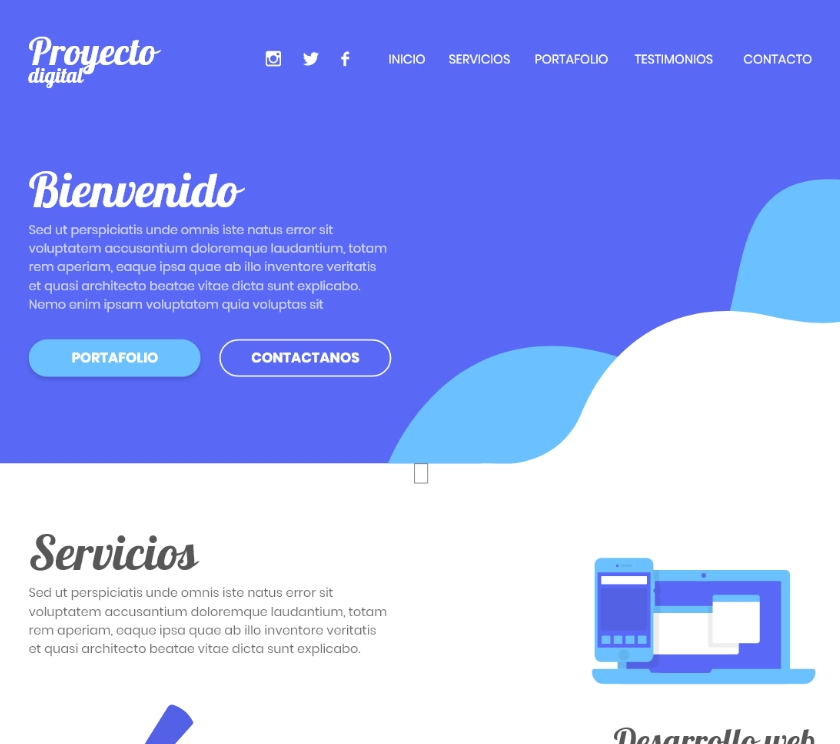
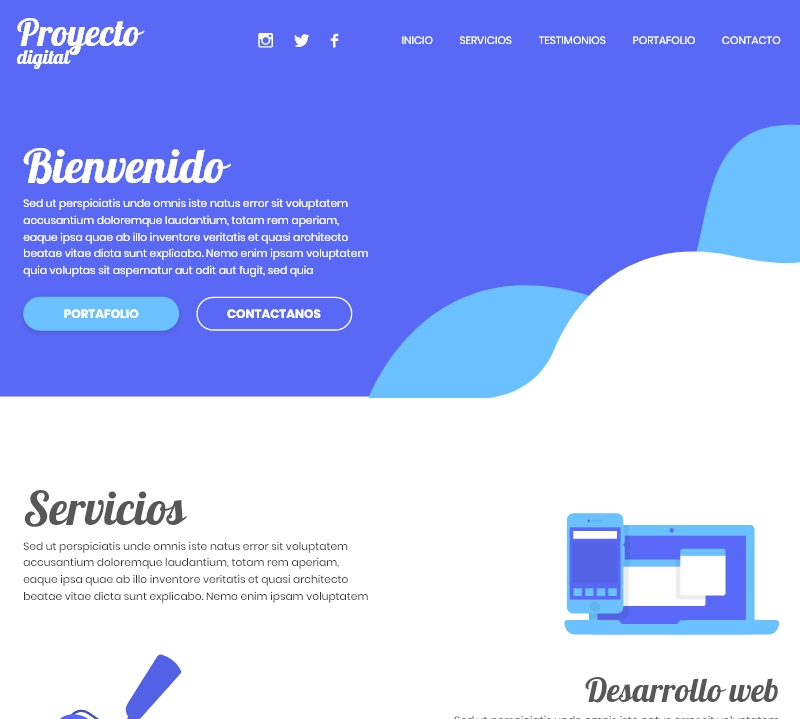
implementado mensaje de error y confirmacion al enviar mensaje. Update del ReadMe

diff --git a/src/styles/main.css b/src/styles/main.css
@@ -5,6 +5,8 @@
   --color-dark: hsla(233, 80.2%, 13.3%,1);
   --color-light: hsla(0, 0%, 100%,1);
   --color-grey: hsla(0, 0%, 90%, 1);
+  --color-success: hsla(126, 50.5%, 43.5%, 1);
+  --color-danger: hsla(0, 77.7%, 57.8%, 1);
   --f-70: 4.375rem;
   --f-50: 3.125rem;
   --f-40: 2.5rem;
@@ -727,7 +729,7 @@ pre {
       font-size: 40px; } }
 
 .error-message {
-  background-color: #e74040;
+  background-color: var(--color-danger);
   border-radius: 30px;
   display: inline-block;
   margin-top: 5px;
@@ -739,10 +741,96 @@ pre {
       font-size: 14px; } }
 
 .input-error {
-  border: 2px solid #e74040;
-  color: #e74040; }
+  border: 2px solid color(--color-danger);
+  color: color(--color-danger); }
   .input-error::placeholder {
-    color: #e74040; }
+    color: color(--color-danger); }
+
+.tooltip-message {
+  position: absolute;
+  right: 0;
+  bottom: 75px;
+  width: 180px;
+  height: 90px;
+  padding: 12px;
+  color: #fff;
+  border-radius: 5px;
+  animation: showMessage 500ms; }
+  .tooltip-message::before {
+    content: "";
+    position: absolute;
+    bottom: -14px;
+    right: 14px;
+    display: block;
+    width: 16px;
+    height: 14px;
+    clip-path: polygon(0 0, 100% 0, 50% 100%); }
+    @media screen and (min-width: 1024px) {
+      .tooltip-message::before {
+        bottom: -13px; } }
+  .tooltip-message__text {
+    width: 130px;
+    height: 100%;
+    display: flex;
+    align-items: center; }
+    @media screen and (min-width: 1024px) {
+      .tooltip-message__text {
+        width: 140px;
+        font-size: 14px; } }
+  @media screen and (min-width: 768px) {
+    .tooltip-message {
+      right: 7px; } }
+  @media screen and (min-width: 1024px) {
+    .tooltip-message {
+      width: 190px;
+      height: 90px;
+      bottom: 110px;
+      right: 12px; } }
+  @media screen and (min-width: 1200px) {
+    .tooltip-message {
+      bottom: 128px;
+      right: 15px; } }
+
+@keyframes showMessage {
+  0% {
+    display: none;
+    opacity: 0; }
+  1% {
+    display: block;
+    opacity: 0; }
+  100% {
+    opacity: 1; } }
+
+.tooltip-message.valid {
+  background-color: var(--color-success); }
+  .tooltip-message.valid::before {
+    background-color: var(--color-success); }
+
+.tooltip-message.error {
+  background-color: var(--color-danger); }
+  .tooltip-message.error::before {
+    background-color: var(--color-danger); }
+
+.tooltip-close {
+  background-color: var(--color-light);
+  position: absolute;
+  top: 8%;
+  left: 82%;
+  display: block;
+  width: 27px;
+  height: 27px;
+  border-radius: 50%;
+  font-size: 20px;
+  font-style: normal;
+  text-align: center;
+  line-height: 27px;
+  cursor: pointer; }
+
+.tooltip-close.close-valid {
+  color: var(--color-success); }
+
+.tooltip-close.close-error {
+  color: var(--color-danger); }
 
 .intro-location {
   width: 100%;

diff --git a/src/components/molecules/_FormContact.scss b/src/components/molecules/_FormContact.scss
@@ -79,7 +79,7 @@ pre{
 }
 
 .error-message{
-    background-color: rgb(231, 64, 64);
+    background-color: var(--color-danger);
     border-radius: 30px;
     display: inline-block;
     margin-top: 5px;
@@ -92,10 +92,111 @@ pre{
 }
 
 .input-error{
-    border: 2px solid rgb(231, 64, 64);
-    color: rgb(231, 64, 64);
+    border: 2px solid color(--color-danger);
+    color: color(--color-danger);
 
     &::placeholder{
-        color: rgb(231, 64, 64);
+        color: color(--color-danger);
     }
+}
+
+.tooltip-message{
+    position: absolute;
+    right: 0;
+    bottom: 75px;
+    width: 180px;
+    height: 90px;
+    padding: 12px;
+    color: #fff;
+    border-radius: 5px;
+    animation: showMessage 500ms;
+
+    &::before{
+        content:"";
+        position: absolute;
+        bottom:-14px;
+        right:14px;
+        display: block;
+        width: 16px;
+        height: 14px;
+        clip-path: polygon(0 0, 100% 0, 50% 100%);
+
+        @include from(laptop){
+            bottom:-13px;
+        }
+    }
+
+    &__text{
+        width: 130px;
+        height: 100%;
+        display: flex;
+        align-items: center;
+        
+        @include from(laptop){
+            width: 140px;
+            font-size: 14px;
+        }
+    }
+
+    @include from(tablet){
+        right: 7px;
+    }
+
+    @include from(laptop){
+        width: 190px;
+        height: 90px;
+        bottom: 110px;
+        right: 12px;
+    }
+
+    @include from(desktop){
+        bottom: 128px;
+        right: 15px;
+    }
+}
+
+@keyframes showMessage{
+    0%{display: none; opacity: 0;}
+    1%{display: block; opacity: 0}
+    100%{opacity: 1;}
+}
+
+.tooltip-message.valid{
+    background-color: var(--color-success);
+
+    &::before{
+        background-color: var(--color-success);
+    }
+}
+
+.tooltip-message.error{
+    background-color: var(--color-danger);
+
+    &::before{
+        background-color: var(--color-danger);
+    }
+}
+
+.tooltip-close{
+    background-color: var(--color-light);
+    position: absolute;
+    top:8%;
+    left:82%;
+    display: block;
+    width: 27px;
+    height: 27px;
+    border-radius: 50%;
+    font-size: 20px;
+    font-style: normal;
+    text-align: center;
+    line-height: 27px;
+    cursor: pointer;
+}
+
+.tooltip-close.close-valid{
+    color: var(--color-success);
+}
+
+.tooltip-close.close-error{
+    color:var(--color-danger);
 }

diff --git a/src/components/molecules/FormContact.jsx b/src/components/molecules/FormContact.jsx
@@ -21,6 +21,7 @@ class FormContact extends React.Component {
             name: null,
             email: null,
             message: null,
+            tooltipMessage: "waiting...",
             errors: {}
         }
     }
@@ -53,15 +54,27 @@ class FormContact extends React.Component {
         })
     }
 
+    handleTooltipMessage = e => {
+        this.setState({
+            tooltipMessage: "waiting..."
+        })
+    }
+
     handleSubmit = e => {
         e.preventDefault()
         if (validateForm(this.state)) {
             console.log('Todo bien, todo correcto y yo que me alegro')
+            this.setState({
+                tooltipMessage: "valid"
+            })
             return
         }
         console.log('formulario invalido')
         let { errors, ...rest } = this.state
         let { name, email, message } = rest
+        this.setState({
+            tooltipMessage: "error"
+        })
         if (name === null && email === null && message === null) {
             this.setState({
                 errors: {
@@ -125,6 +138,19 @@ class FormContact extends React.Component {
                         value="send"
 
                     />
+                    {this.state.tooltipMessage === "valid"
+                        ? <span className="tooltip-message valid">
+                            <i className="tooltip-close close-valid f-icon" onClick={this.handleTooltipMessage}>close</i>
+                            <p className="tooltip-message__text message-success f-13">Mensaje enviado :)</p>
+                        </span>
+                        : null}
+
+                    {this.state.tooltipMessage === "error"
+                        ? <span className="tooltip-message error ">
+                            <i className="tooltip-close close-error f-icon" onClick={this.handleTooltipMessage}>close</i>
+                            <p className="tooltip-message__text message-error  f-13">Por favor, corrige los campos para enviar tu mensaje :(</p>
+                        </span>
+                        : null}
                 </div>
                 {errors.message && <span className="error-message">{errors.message}</span>}
             </form>

diff --git a/src/components/molecules/Menu.jsx b/src/components/molecules/Menu.jsx
@@ -12,8 +12,8 @@ const Menu = props => {
             <ul className="menu">
                 <li className="menu__item"><a href="#inicio" onClick={props.autoScroll} className="menu__link f-14">Inicio</a></li>
                 <li className="menu__item"><a href="#servicios" onClick={props.autoScroll} className="menu__link f-14">Servicios</a></li>
-                <li className="menu__item"><a href="#portafolio" onClick={props.autoScroll} className="menu__link f-14">Portafolio</a></li>
                 <li className="menu__item"><a href="#testimonios" onClick={props.autoScroll} className="menu__link f-14">Testimonios</a></li>
+                <li className="menu__item"><a href="#portafolio" onClick={props.autoScroll} className="menu__link f-14">Portafolio</a></li>
                 <li className="menu__item"><a href="#contacto" onClick={props.autoScroll} className="menu__link f-14">Contacto</a></li>
             </ul>
         </div>

diff --git a/src/styles/_variables.scss b/src/styles/_variables.scss
@@ -7,6 +7,8 @@
     --color-dark: hsla(233, 80.2%, 13.3%,1);
     --color-light: hsla(0, 0%, 100%,1);
     --color-grey: hsla(0, 0%, 90%, 1);
+    --color-success: hsla(126, 50.5%, 43.5%, 1);
+    --color-danger: hsla(0, 77.7%, 57.8%, 1);
 
     // Font Size
     --f-70: #{fontSizeRem(70px)};
